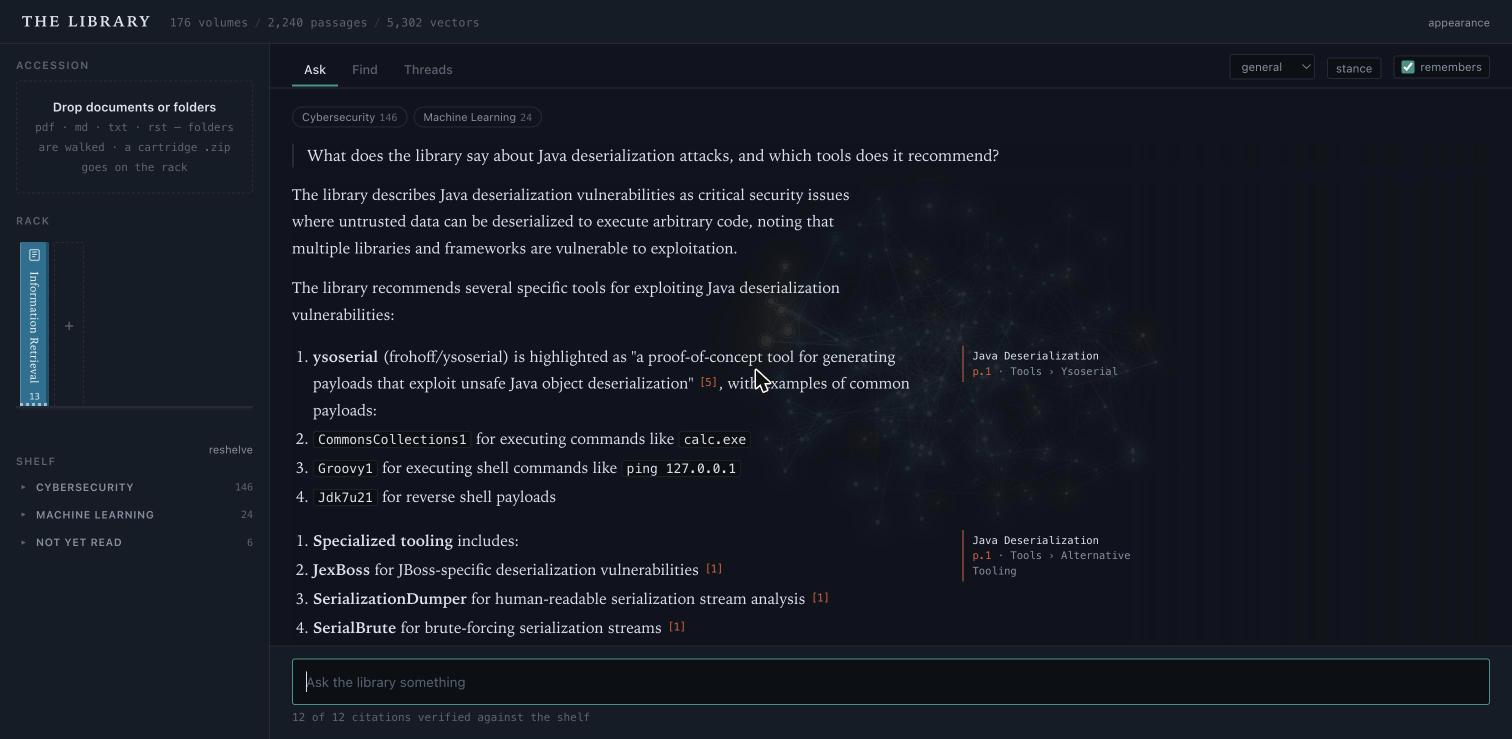
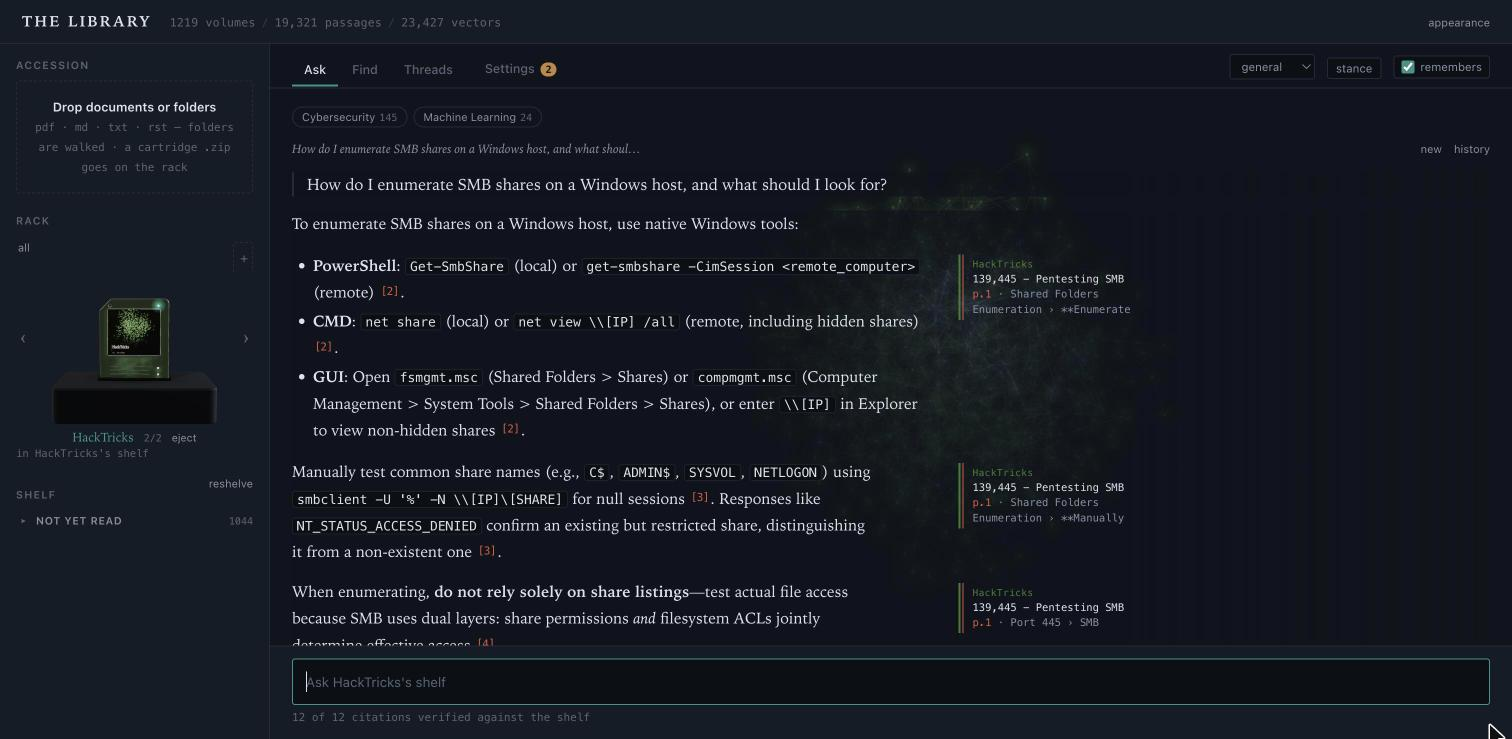
README and screenshots: nebula, Find tour, conversations, settings, cartridges as objects

diff --git a/scripts/verify.py b/scripts/verify.py
@@ -215,8 +215,8 @@ async def main():
         sh(f"./ops/backup.sh {td} >/dev/null 2>&1")
         made = sh(f"ls {td}/*/ 2>/dev/null")
         ok("backup produces dump + archive", "library_agent.dump" in made and "documents.tar.gz" in made)
-    ok("screenshots present", all(os.path.exists(f"docs/{n}.jpg") for n in ("web","ask","reader","threads","cartridge")))
-    ok("README references them", all(f"docs/{n}.jpg" in open("README.md").read() for n in ("web","ask","reader","threads","cartridge")))
+    ok("screenshots present", all(os.path.exists(f"docs/{n}.jpg") for n in ("web","ask","find","reader","threads","cartridge","settings")))
+    ok("README references them", all(f"docs/{n}.jpg" in open("README.md").read() for n in ("web","ask","find","reader","threads","cartridge","settings")))
 
     passed = sum(1 for _,c_,_ in R if c_); total = len(R)
     print(f"\n{'ALL PASS' if passed==total else 'FAILURES'}: {passed}/{total}")

diff --git a/README.md b/README.md
@@ -6,11 +6,11 @@
 </p>
 
 <p align="center">
-  <img src="docs/web.jpg" alt="The Ask pane. Behind it, the library drawn as a nebula: one point per volume, edges where volumes cite each other, share a thread, or sit close in meaning. On the left, the rack with an inserted cartridge and the two-level shelf." width="900"/>
+  <img src="docs/web.jpg" alt="The Ask pane. Behind it, the library drawn as a nebula: one point per volume, edges where volumes cite each other, share a thread, or sit close in meaning. On the left, the rack with a cartridge seated in its socket, and the shelf." width="900"/>
 </p>
 
 <p align="center">
-  <img src="docs/ask.jpg" alt="An answer. A reading column with markdown rendered; every citation resolves into a note in the margin beside the block that cites it, and the volumes it drew on light up in the nebula behind." width="900"/>
+  <img src="docs/ask.jpg" alt="An answer, asked inside a cartridge's room. A reading column with markdown rendered; every citation resolves into a note in the margin beside the block that cites it, with a stripe in the colour of the cartridge it came from." width="900"/>
 </p>
 
 <p align="center">
@@ -51,9 +51,15 @@ curl -X POST 'localhost:8077/api/read/backfill?tier=2'   # annotate everything o
 
 **Ask** — talk to the collection. Narrow it by subject with the chips or by clicking a subject on the shelf. Switch models per conversation. Set a **stance** to loosen the librarian's reserve: *opinionated*, *contrarian · charitable*, *cynical · optimistic*. Answers given under a stance are labelled in violet so you always know which ones were the librarian speaking for itself.
 
-**Find** — plain retrieval, showing each passage's dense and lexical rank.
+**Find** — plain retrieval, showing each passage's dense and lexical rank. The nebula stays up behind it: when results land, the camera dives on each finding in turn with a spin and a large label, advancing every few seconds; hovering a row takes over, and clicking opens the volume.
+
+<p align="center">
+  <img src="docs/find.jpg" alt="Find. The camera has dived into the region of the nebula where the findings are; the one under the eye is ringed and named; the list beside it marks the same row." width="900"/>
+</p>
 
 **Threads** — themes spanning volumes, where your sources disagree, and who cites whom. Rebuilt automatically a few minutes after the last read finishes, so a folder of forty papers produces one rebuild rather than forty.
+
+**Conversations** — the desk bar names the current one, starts a new one, and lists earlier ones; opening one replays it with its margin notes, and asking again continues it.
 
 <p align="center">
   <img src="docs/threads.jpg" alt="Threads across the collection: themes drawn from claims in several volumes, and the citation graph." width="900"/>
@@ -73,6 +79,8 @@ This is what makes a 500-document backfill a single overnight rather than the ~2
 
 **Retrieval** is dense + lexical fused with reciprocal rank fusion, in one Postgres query, then reranked by a cross-encoder — every stage measured against a generated question set and switchable. Chat reranks; keyword search doesn't, because the eval showed the cross-encoder *hurts* short keyword queries.
 
+**The nebula.** Behind Ask and Find the library is drawn as a cloud: one point per volume, edges where volumes cite each other, share a thread, or sit close in meaning, laid out by a small force simulation in three dimensions and turning slowly. It thickens as the library grows; the volumes an answer drew on light up as they are retrieved.
+
 **The shelf is two levels, and every volume sits in one place.** Tier 1 tags each document with up to four subjects, which is right for finding things and wrong for shelving them. So shelving is a separate pass: the model organises the collection into a handful of *top shelves* (fields — Cybersecurity, Machine Learning) each with *sub-shelves* named from the titles actually on them, then files every volume on exactly one sub-shelf. Crowded sub-shelves are split from their own titles; sub-shelves with a volume or two are dissolved into their neighbours. New volumes are shelved as they are read. *Reshelve* redoes the whole thing; the tags remain for filtering.
 
 **The library layer** clusters extracted claims (not section summaries — measured: summaries cluster with their own paper, claims cluster across papers) and summarises each cluster once. Citations are parsed from reference sections and matched by title. Contradiction detection runs over cross-document clusters only.
@@ -88,6 +96,10 @@ This is what makes a 500-document backfill a single overnight rather than the ~2
 The Settings tab shows what the library is running on — services, models, retrieval and library configuration, each with the environment variable that changes it — and a maintenance row (collect garbage, rebuild threads, reshelve). Below it is the **incident log**: anything that escapes a route, fails a background job or a chat turn, or is logged at `ERROR` is recorded there, deduplicated within a window.
 
 *Troubleshoot* asks the model to read an incident against the library's own documentation — [`docs/TROUBLESHOOTING.md`](docs/TROUBLESHOOTING.md), this README, the devlog, the launcher and ops scripts — and answer with a diagnosis, the likely cause (environment, configuration, data, model, or a defect in the library itself), steps with commands for *you* to run, and the sections it leaned on. Nothing is executed: it says what to do; you do it. Every suggested command is checked against the commands the docs actually show, and anything the model appears to have invented is marked. When the cause looks like a defect, it drafts a GitHub issue — what happened, the error, what was tried, the environment — and offers it as a pre-filled link, with home paths and anything key-shaped scrubbed.
+
+<p align="center">
+  <img src="docs/settings.jpg" alt="An incident, troubleshot. The diagnosis, the likely cause, numbered steps with commands to copy — one of them marked as not in the documentation — the sections it leaned on, and a pre-filled GitHub issue." width="900"/>
+</p>
 
 ## Cartridges
 
@@ -109,14 +121,16 @@ At `readings`, each section's summary stands in as its passage, so retrieval, th
 ```
 
 <p align="center">
-  <img src="docs/cartridge.jpg" alt="Making a cartridge: name, colour, icon, level, and a live preview of what would leave. On the left, the shelf open two levels deep: Cybersecurity, Deserialization Flaws, the volumes." width="900"/>
+  <img src="docs/cartridge.jpg" alt="Making a cartridge: name, colour, material and dials, clearance, art, level — and the object itself turning on the right: a clear green shell with the constellation of its thousand volumes floating inside, the label a sticker on the front with CONFIDENTIAL across its top." width="900"/>
 </p>
 
-**A cartridge is an object.** It has art on its label — an image you upload, or by default its own *constellation*: the volumes it holds laid out from their vectors in its colour — and a material: solid, clear, smoke, glitter or metallic, with dials for tint, opacity, sparkle and roughness. A clear shell shows the constellation floating inside the plastic. The design is sealed into the manifest, so a cartridge looks the same on every rack it lands on; only its maker sets it. Each carries a power light that comes on when the cartridge is scoped, three pips lit by its level (catalogue, readings, full), and a **clearance** — open, internal, confidential, restricted — printed as a band across the label; a receiving library will not re-export the volumes of a restricted cartridge. The rack is one socket: step or scroll through your cartridges, and the one in view hangs above it until you click — then it drops in with a bounce and the light comes on, and you are in its room. Click again to lift it out. *All* opens a grid to jump straight to one. The make panel shows the cartridge turning as you work; hovering one on the rack lifts it into view. Rendered with one vendored library (three.js, in `web/vendor/`), so nothing is fetched from a network. Uploaded and shipped art is re-encoded on the way in.
+**A cartridge is an object.** Built the way the real thing is: a front plate with the grip grooves, three level pips, a power light and a screw cut into it, a PCB inside with an edge of gold contacts, and the label a sticker on the front. The label carries art — an image you upload, or by default the cartridge's own *constellation*, its volumes laid out from their vectors in its colour. The plastic is one of five materials — solid, clear, smoke, glitter, metallic — with dials for tint, opacity, sparkle and roughness; through a clear shell you see the board and the constellation floating in front of it. The pips light by level; the power light comes on when the cartridge is in use. A **clearance** — open, internal, confidential, restricted — prints as a band across the label; a receiving library will not re-export the volumes of a restricted cartridge. The whole design is sealed into the manifest, so a cartridge looks the same on every rack it lands on; only its maker sets it. Lit by a studio HDRI, rendered with one vendored library (three.js), nothing fetched from a network. Uploaded and shipped art is re-encoded on the way in.
+
+**The rack is one socket.** Step or scroll through your cartridges; the one in view hangs above the socket until you click, then it drops in with a bounce and the light comes on — you are in its room: the composer becomes *Ask HackTricks's shelf*, and Find, the shelf and follow-ups stay inside it. Click again to lift it out; *all* opens a grid to jump straight to one; hovering lifts the cartridge up large beside the nebula.
 
 A folder can also arrive as a cartridge directly: `./library import ~/hacktricks --cartridge "HackTricks"`.
 
-Click a spine on the rack to walk into that room: the composer becomes *Ask Security's shelf*, and Find, the shelf and follow-ups stay inside it. Eject removes what the cartridge brought and leaves what was already yours. A document that arrives from two cartridges is one document with two memberships; subjects merge by name; vectors ship as float16 and are loaded directly when the embedding model matches, re-embedded from the shipped text when it doesn't. Clusters and contradictions are never shipped — the receiver recomputes them across the new whole, which is the point. Content is hash-verified; there is no signing.
+Inside a room, eject removes what the cartridge brought and leaves what was already yours. A document that arrives from two cartridges is one document with two memberships; subjects merge by name; vectors ship as float16 and are loaded directly when the embedding model matches, re-embedded from the shipped text when it doesn't. Clusters and contradictions are never shipped — the receiver recomputes them across the new whole, which is the point. Content is hash-verified; there is no signing.
 
 ## Models
 
@@ -157,7 +171,10 @@ src/library_agent/
   chat/                 citations, query rewriting, stances, streaming
   eval/                 question generation, recall@k harness
   api/  worker/  db/
-web/index.html          the whole UI, one file, no build step
+web/index.html          the UI, one file, no build step
+web/cartridge3d.js      the cartridge as an object, and the socket (three.js)
+web/vendor/             three.js, RGBELoader, one studio HDRI — all vendored
+docs/TROUBLESHOOTING.md what the troubleshooter reads
 ops/                    launchd units, backup and restore
 tests/
 ```
